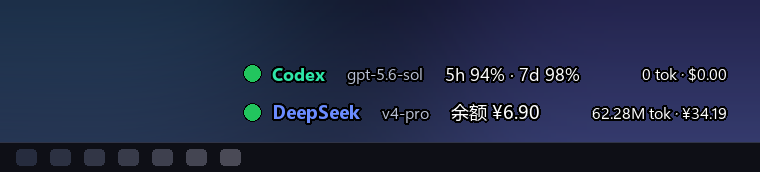
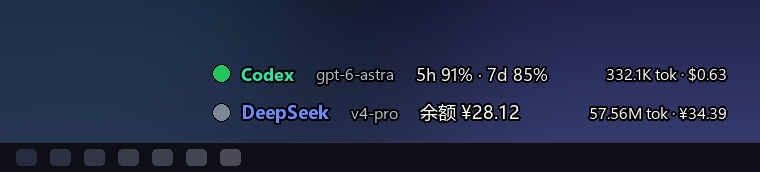
状态灯改为与刷新节奏同步；余额含赠金；Codex 查询转后台轮询
1) 状态灯
   原来固定 15 分钟才转灰，太慢。现在判据有两条并取最近的一条：
   - 指标是否还在变（Token / 费用 / 余额 / 配额与上一轮比对）
   - 工具自报的最近活动时间（Codex 线程 updatedAt / DSH 会话缓存 mtime）
   窗口 = 3 个刷新周期，下限 60s、上限 300s，刷新调快灯也更灵敏。

2) DeepSeek 余额 = 普通余额 + 赠金余额
   get_user_summary 同一次响应里就带 bonus_wallets，不需要额外请求。

3) Codex 采集改后台轮询，界面不再被阻塞
   account/rateLimits/read 与 account/usage/read 各要 5~8s（走网络），
   逐线程账单每条 1~5s，一轮最坏 52s。
   改为独立线程每 30s 轮询，界面刷新只读最新结果；
   逐线程账单按 (threadId, updatedAt) 缓存 + 8s 时间预算。
   实测界面采集耗时 52s -> 1.8s。

diff --git a/README.md b/README.md
@@ -1,16 +1,22 @@
 # Codex + DeepSeek Harness 桌面宠物
 
 一个 Windows 悬浮小挂件：把 **OpenAI Codex** 和 **DeepSeek Harness** 两个 AI 编程工具
-的用量、额度和花费并排放在桌面指定角落里，两行、透明背景、几乎不占地方。
+的用量、额度和花费并排放在桌面右下角，两行、透明背景、几乎不占地方。
 
 ![预览](preview.png)
 
 ```
-● Codex     gpt-5.6-sol   5h 100% · 7d 99%     0 tok · $0.00
-● DeepSeek  v4-pro        余额 ¥6.90          62.3M tok · ¥23.35
+● Codex     gpt-6-astra   5h 91% · 7d 99%      332.1K tok · $0.63
+● DeepSeek  v4-pro        余额 ¥28.12          62.3M tok · ¥23.35
 ```
 
 **状态灯**：🟢 工作中　⚪ 休息中　🔴 未运行
+
+判定方式和刷新节奏同步，不再是固定 15 分钟：
+
+- 判据有两条，取"最近"的一条 —— ① **指标还在变**（Token / 费用 / 余额 / 配额任一与上一轮不同）；
+  ② 工具自报的最近活动时间（Codex 线程 `updatedAt` / DSH 会话缓存 mtime）还很近。
+- 窗口 = **3 个刷新周期，下限 60s、上限 300s**：刷新间隔调快，灯也更灵敏。
 
 ## 下载 / 快速开始
 
@@ -60,8 +66,12 @@ powershell -NoProfile -ExecutionPolicy Bypass -File install.ps1
 - **Codex**：`account/rateLimits/read`（5h = `primary` 300 分钟窗口，7d = `secondary`
   10080 分钟窗口）、`account/usage/read`（每日用量桶、逐线程 `estimatedUsageUsdMicros`），
   与 Codex 官方界面 / VS Code 扩展同源。
-- **DeepSeek**：余额读 `platform.deepseek.com/api/v0/users/get_user_summary`；Token 取自
-  `~/.dsh/storages/session_projcache` 中**今天创建的会话**。
+  这两个账户级接口走网络、各要 5~8 秒，所以改成**后台线程按 30s 轮询**，
+  界面刷新只读最新结果（实测采集耗时从 52s 降到 1.6s）；
+  逐线程账单按 `(threadId, updatedAt)` 缓存，并设 8s 时间预算。
+- **DeepSeek**：余额读 `platform.deepseek.com/api/v0/users/get_user_summary`，
+  **显示的余额 = 普通余额 + 赠金余额**（`normal_wallets` + `bonus_wallets`，赠金一次查询就有，
+  不算额外开销）；Token 取自 `~/.dsh/storages/session_projcache` 中**今天创建的会话**。
 - 模型名会自动去掉与显示名重复的部分（`deepseek-v4-pro` → `v4-pro`）。
 - **只显示实时数据**：不读任何历史快照文件；某轮失败时沿用上一轮的实时结果。
 - 标注 `(估)` 的费用按 `config.json` 单价估算。
@@ -123,4 +133,5 @@ powershell -NoProfile -ExecutionPolicy Bypass -File install.ps1
 
 - 每次刷新只重绘一张 Pillow 图并替换 `PhotoImage`，**不会闪烁**。
 - Codex 侧常驻一个 `codex app-server` 子进程做本地 JSON-RPC（官方客户端同做法），
-  退出时自动关闭，不残留进程。
+  由独立线程轮询，退出时自动关闭，不残留进程。
+- 界面刷新耗时约 1.6s（本地读 + 一次余额 HTTP），与 Codex 的网络开销完全解耦。
